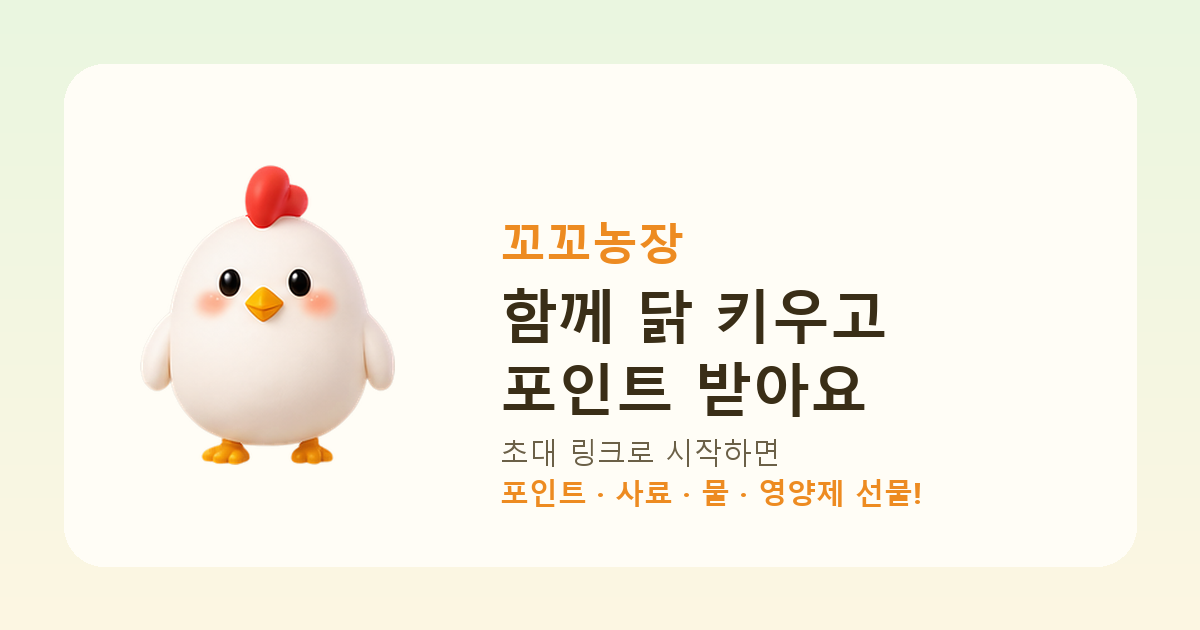
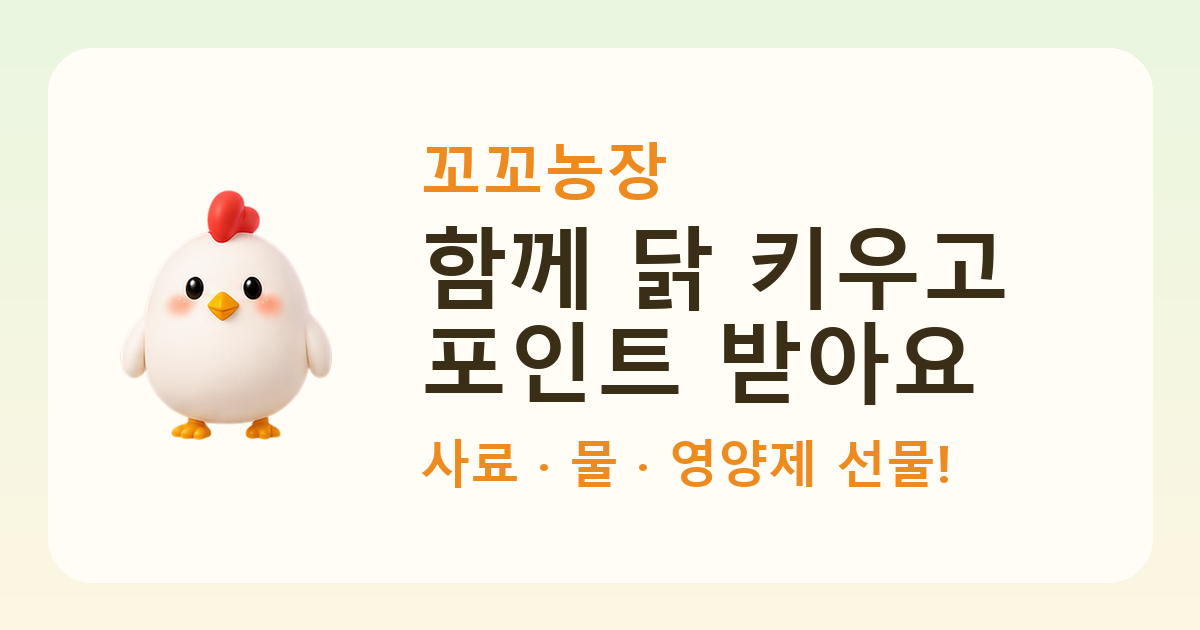
초대 페이지: 닭 캐릭터·복사 버튼, 자동 입력이라는 거짓 문구 정정
- 알 이모지 대신 앱 캐릭터(닭) 그림 — 무슨 앱인지 그림으로 먼저 알린다
- '코드가 복사됐어요 — 앱에서 자동으로 입력됩니다' 는 사실이 아니었다.
  카톡 인앱 브라우저는 누르지 않은 복사를 막고, 설치를 건너 온 경로는 앱이 알 수 없다.
  복사 버튼을 두고(클립보드 API 실패 시 execCommand 로 재시도) 문구를 실제 동작대로 고쳤다
- og 이미지 글자를 키웠다 — 카톡이 1200x630 을 230px 남짓으로 줄여 그려 안 읽혔다.
  줄 간격은 실제 글자 상자를 재서 쌓는다(겹쳐 나온 적 있음)

Claude-Session: https://claude.ai/code/session_01Ay27Pc4FfGF1JyH3AHnRVg

Changed region(s): [[0.0925, 0.2111, 0.8325, 0.754], [0.3392, 0.6937, 0.8017, 0.8143]]

diff --git a/public/invite.php b/public/invite.php
@@ -4,8 +4,9 @@
  *
  * 카톡·문자로 받은 사람이 열면:
  *  1) 앱이 깔려 있으면 앱 스킴(kkokkofarm://invite?code=…)으로 바로 열려 코드가 자동 등록된다.
- *  2) 안 깔려 있으면 스토어로 보낸다. 설치 후 첫 실행에서 코드를 자동으로 못 읽으므로
- *     이 화면이 코드를 **클립보드에 복사**해 두고, 크게 보여 주기도 한다.
+ *  2) 안 깔려 있으면 스토어로 보낸다. **설치 후 첫 실행에는 코드가 자동으로 들어가지 않는다**
+ *     (설치를 건너 온 경로를 앱이 알 방법이 없다). 그래서 코드를 크게 보여 주고
+ *     복사 버튼을 둔다 — 앱에서 추천인 코드 칸에 붙여넣는다.
  *
  * 서버가 코드를 검증하지 않는다 — 코드는 앱이 회원 ID 에서 만들고 앱이 확인한다.
  * 여기서는 형식(영문·숫자 4~12자)만 보고 그대로 넘긴다.
@@ -58,7 +59,7 @@ $desc = $reward !== ''
     : '초대 링크로 시작하면 시작 선물을 바로 받아요. 닭을 키우고 알을 모아 포인트로 바꿔 보세요.';
 // 뒤의 v 는 그림을 고쳤을 때 올린다 — 카카오·CF 가 주소별로 캐시해 두어
 // 파일만 바꾸면 한동안 옛 그림이 계속 나간다(2026-08-31 확인)
-$ogimg = 'https://kkokkofarm.j-curve.co.kr/og-invite.png?v=2';
+$ogimg = 'https://kkokkofarm.j-curve.co.kr/og-invite.png?v=3';
 $ogurl = 'https://kkokkofarm.j-curve.co.kr/i/'.rawurlencode($code);
 
 header('Content-Type: text/html; charset=utf-8');
@@ -95,23 +96,33 @@ header('Cache-Control: no-store');
           box-shadow: 0 12px 30px -12px rgba(90,66,26,.45); text-align: center; }
   h1 { font-size: 22px; margin: 0 0 8px; letter-spacing: -.02em; }
   p { font-size: 15px; line-height: 1.6; color: #6B6047; margin: 0 0 20px; }
-  .code { font-size: 30px; font-weight: 800; letter-spacing: .06em; background: #FCF3DC; border-radius: 16px;
-          padding: 14px 10px; margin-bottom: 8px; }
-  .hint { font-size: 13px; color: #8A7F63; margin: 0 0 20px; }
+  .codebox { display: flex; gap: 8px; align-items: stretch; margin-bottom: 10px; }
+  .code { flex: 1; font-size: 30px; font-weight: 800; letter-spacing: .06em; background: #FCF3DC; border-radius: 16px;
+          padding: 14px 10px; }
+  .copy { flex: 0 0 auto; min-width: 88px; font-family: inherit; font-size: 16px; font-weight: 800; color: #ED8B21;
+          background: #fff; border: 2px solid #EFE4C8; border-radius: 16px; padding: 0 16px; cursor: pointer; }
+  .copy.done { background: #ED8B21; border-color: #ED8B21; color: #fff; }
+  .hint { font-size: 14.5px; line-height: 1.6; color: #8A7F63; margin: 0 0 20px; }
+  .hint b { color: #6B6047; }
   a.btn { display: block; text-decoration: none; border-radius: 16px; padding: 15px; font-size: 16.5px; font-weight: 800; margin-bottom: 10px; }
   .go { background: linear-gradient(180deg, #F5A238, #ED8B21); color: #fff; }
   .store { background: #fff; color: #3A2E17; border: 2px solid #EFE4C8; }
-  .egg { font-size: 54px; margin-bottom: 6px; }
+  /* 앱 캐릭터 그대로 — 알 이모지는 무슨 앱인지 알려 주지 못했다(2026-08-31 지시) */
+  .hen { width: 96px; height: auto; margin: 0 auto 10px; display: block; }
 </style>
 </head>
 <body>
   <div class="card">
-    <div class="egg">🥚</div>
+    <img class="hen" src="/invite-hen.png" width="163" height="192" alt="꼬꼬농장 닭">
+
     <h1>꼬꼬농장에 초대받았어요!</h1>
     <p>친구와 함께 닭을 키우고 알을 모아<br>커피·기프티콘으로 바꿔 보세요.</p>
     <?php if ($code !== ''): ?>
-      <div class="code" id="code"><?= htmlspecialchars($code, ENT_QUOTES) ?></div>
-      <p class="hint">코드가 복사됐어요 — 앱에서 자동으로 입력됩니다</p>
+      <div class="codebox">
+        <div class="code" id="code"><?= htmlspecialchars($code, ENT_QUOTES) ?></div>
+        <button class="copy" id="copy" type="button">복사</button>
+      </div>
+      <p class="hint" id="hint">앱이 있으면 <b>앱으로 열기</b>로 코드가 바로 들어가요.<br>처음이라면 코드를 복사해 두고, 앱에서 붙여넣어 주세요.</p>
     <?php endif; ?>
     <a class="btn go" id="open" href="<?= htmlspecialchars($scheme, ENT_QUOTES) ?>">앱으로 열기</a>
     <a class="btn store" id="store" href="<?= htmlspecialchars($ios, ENT_QUOTES) ?>">앱 설치하기</a>
@@ -123,9 +134,39 @@ header('Cache-Control: no-store');
   var store = isIOS ? <?= json_encode($ios) ?> : <?= json_encode($aos) ?>;
   document.getElementById('store').href = store;
 
-  // 설치 후 첫 실행에서 코드를 자동으로 넣기 위해 미리 복사해 둔다(클립보드는 사용자 제스처 없이도
-  // 대부분 브라우저가 허용하지 않으므로 실패해도 조용히 넘어간다 — 화면의 코드가 대안이다)
-  if (code && navigator.clipboard) { navigator.clipboard.writeText(code).catch(function () {}); }
+  // 코드 복사 — 카톡 인앱 브라우저는 누르지 않은 복사를 막는다. 그래서 자동으로 복사한 척하지 않고
+  // 버튼을 눌러 복사하게 한다(예전 문구 '코드가 복사됐어요'는 사실이 아니었다 — 2026-08-31 제보).
+  // clipboard API 가 없거나 거부되면 옛 방식(execCommand)으로 한 번 더 시도한다.
+  function copyCode() {
+    var done = function () {
+      var b = document.getElementById('copy');
+      b.textContent = '복사됨';
+      b.className = 'copy done';
+      setTimeout(function () { b.textContent = '복사'; b.className = 'copy'; }, 1800);
+    };
+    if (navigator.clipboard && navigator.clipboard.writeText) {
+      navigator.clipboard.writeText(code).then(done, legacy);
+
+      return;
+    }
+    legacy();
+    function legacy() {
+      var t = document.createElement('textarea');
+      t.value = code;
+      t.setAttribute('readonly', '');
+      t.style.cssText = 'position:fixed;left:-9999px;top:0;';
+      document.body.appendChild(t);
+      t.select();
+      t.setSelectionRange(0, code.length);   // iOS 는 select() 만으로는 잡히지 않는다
+      var ok = false;
+      try { ok = document.execCommand('copy'); } catch (e) { ok = false; }
+      document.body.removeChild(t);
+      if (ok) { done(); return; }
+      document.getElementById('hint').innerHTML = '코드를 길게 눌러 복사해 주세요';
+    }
+  }
+  var copyBtn = document.getElementById('copy');
+  if (copyBtn) { copyBtn.addEventListener('click', copyCode); }
 
   // 앱이 깔려 있으면 스킴이 열리고, 아니면 잠시 뒤 스토어로 보낸다.
   var hidden = false;
